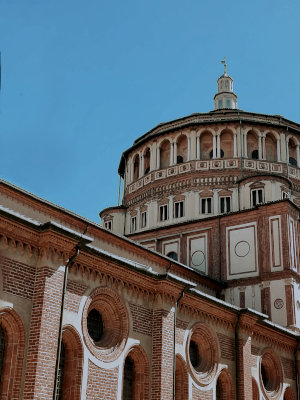
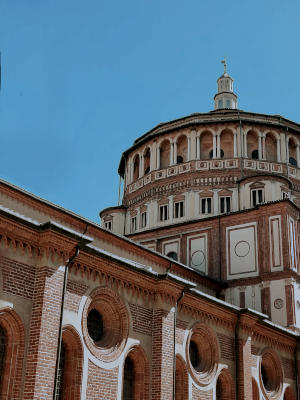
adjust images 14 and 17
This commit adjusts the jpg:s of images 014 and 017 and adds webp:s of
them to improve performance.

diff --git a/bildredigering.html b/bildredigering.html
@@ -32,12 +32,15 @@
             width="300"
             height="400"
           />
-          <img
-            src="./assets/bildserie014.jpg"
-            alt="samma foto men himmlen är blå och fingret har tagits bort"
-            width="300"
-            height="400"
-          />
+          <picture>
+            <source srcset="./assets/bildserie014.webp" type="image/webp" />
+            <img
+              src="./assets/bildserie014.jpg"
+              alt="samma foto men himmlen är blå och fingret har tagits bort"
+              width="300"
+              height="400"
+            />
+          </picture>
           <figcaption>
             Två versioner av samma fotografi, i den högra har fingret tagits
             bort och färgerna har justerats.
@@ -102,13 +105,16 @@
             height="400"
             loading="lazy"
           />
-          <img
-            src="./assets/bildserie017.jpg"
-            alt="samma bild, men mörkare och med lägre kontrast"
-            width="300"
-            height="400"
-            loading="lazy"
-          />
+          <picture>
+            <source srcset="./assets/bildserie017.webp" type="image/webp" />
+            <img
+              src="./assets/bildserie017.jpg"
+              alt="samma bild, men mörkare och med lägre kontrast"
+              width="300"
+              height="400"
+              loading="lazy"
+            />
+          </picture>
           <figcaption>
             Två versioner av samma bild, den högra har redigerats så den är
             mörkare och har lägre kontrast.

diff --git a/index.html b/index.html
@@ -26,24 +26,30 @@
       <!-- Bildspel: img i flex -->
       <!-- 11, 12, 14, 17 -->
       <div id="bildspel">
-        <img
-          src="./assets/bildserie014.jpg"
-          alt="en byggnad"
-          width="300"
-          height="400"
-        />
+        <picture>
+          <source srcset="./assets/bildserie014.webp" type="image/webp" />
+          <img
+            src="./assets/bildserie014.jpg"
+            alt="en byggnad"
+            width="300"
+            height="400"
+          />
+        </picture>
         <img
           src="./assets/bildserie012.jpg"
           alt="svartvit, ett hundhuvud som blivigt färglaggt"
           width="533"
           height="380"
         />
-        <img
-          src="./assets/bildserie017.jpg"
-          alt="ett vattendrag i skogsbeklädda berg, man ser en person bakifrån, de står på ett ben på en sten i vattendraget, de ser ut att stå vid kanten av ett vattenfall som de står vända mot"
-          width="300"
-          height="400"
-        />
+        <picture>
+          <source srcset="./assets/bildserie017.webp" type="image/webp" />
+          <img
+            src="./assets/bildserie017.jpg"
+            alt="ett vattendrag i skogsbeklädda berg, man ser en person bakifrån, de står på ett ben på en sten i vattendraget, de ser ut att stå vid kanten av ett vattenfall som de står vända mot"
+            width="300"
+            height="400"
+          />
+        </picture>
       </div>
       <!-- beskrivning av uppgift -->
       <p>
